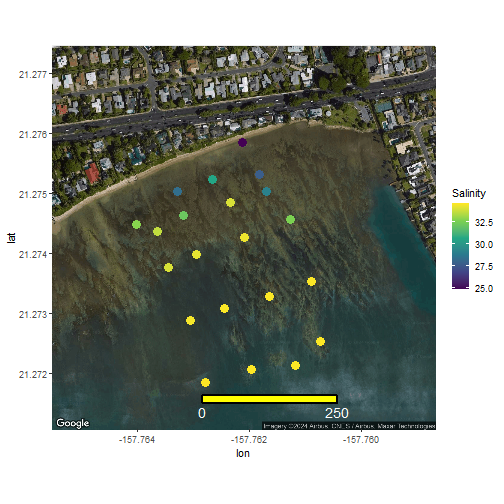
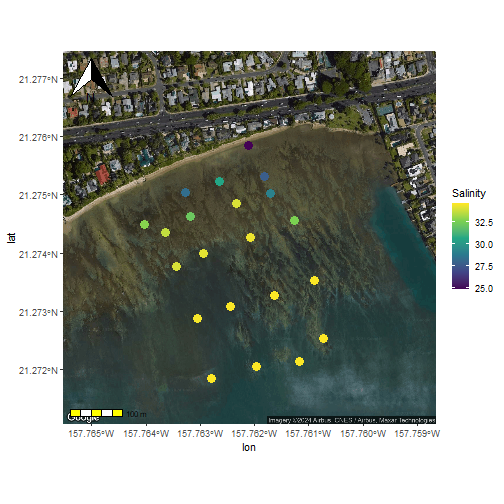
updated maps lectures

diff --git a/Week_07/13_Maps1.html b/Week_07/13_Maps1.html
@@ -25,7 +25,7 @@ class: center, middle, inverse, title-slide
 ### UH Data Fundamentals in R
 ]
 .date[
-### (updated: 2024-10-01)
+### (updated: 2024-10-07)
 ]
 
 ---
@@ -104,7 +104,7 @@ Other very helpful packages:
 - **sf** (This is for the serious GIS people. If you want to do actual spatial analyses this is the package to use)
 - **ggmap** (Uses the google maps API to make maps. Really easy to use, but requires a credit card for the API...)
 - **tmap** (static and interactive maps)
-- **leaflet** (interactive html maps)
+- **leaflet** (interactive html maps-- Awesome to use with rmakrdown files)
 
 Helpful references:
 1. The required reading for today
@@ -762,6 +762,25 @@ ggplot(mtcars) +
 ```
 
 ![](13_Maps1_files/figure-html/unnamed-chunk-19-1.png)&lt;!-- --&gt;
+---
+# Homework
+You need to make a map **using RMarkdown** with one of the following datasets from past Tidy Tuesdays. Make sure, as usual, that you scripts and output are saved appropriately.
+
+[Plastic pollution](https://github.com/rfordatascience/tidytuesday/blob/master/data/2021/2021-01-26/readme.md)
+
+[Cats on the move!](https://github.com/rfordatascience/tidytuesday/blob/master/data/2023/2023-01-31/readme.md)
+
+[Where is Bigfoot!](https://github.com/rfordatascience/tidytuesday/tree/master/data/2022/2022-09-13)
+
+[Meteorites](https://github.com/rfordatascience/tidytuesday/tree/master/data/2019/2019-06-11)
+
+## Set up and test your google API key **BEFORE** online class.  
+You cannot follow along in class without the google API key. It requires a credit card, but you need to make 10,000 maps before you get charged (i.e. unless you are a developer you will never get charged). Follow the directions starting at ["Enable Google static map service for ggmap"](https://www.littlemissdata.com/blog/maps). If you don't feel comfortable doing this then you can just follow along in class online. Also, important, you **need to use a gmail account to set up your google API.**  
+
+You will also need a **Stadia Maps** API key.  This one does not require a credit card.  Follow directions [here](https://docs.stadiamaps.com/tutorials/getting-started-in-r-with-ggmap/)
+
+
+
 
 ---
 # Good plot Bad plot lab - competition
@@ -812,28 +831,6 @@ The second plot should be based on the same or similar data to the first plot, b
 .pull-right[
 ![goodplot1](libs/images/goodplot-1.png)]
 
-
-
----
-# Twitter inspiration
-
-[See this thread](https://x.com/NSilbiger/status/1642006283103662080)
-
-
----
-# Homework
-You need to make a map **using RMarkdown** with one of the following datasets from past Tidy Tuesdays. Make sure, as usual, that you scripts and output are saved appropriately.
-
-[Plastic pollution](https://github.com/rfordatascience/tidytuesday/blob/master/data/2021/2021-01-26/readme.md)
-
-[Cats on the move!](https://github.com/rfordatascience/tidytuesday/blob/master/data/2023/2023-01-31/readme.md)
-
-[Where is Bigfoot!](https://github.com/rfordatascience/tidytuesday/tree/master/data/2022/2022-09-13)
-
-[Meteorites](https://github.com/rfordatascience/tidytuesday/tree/master/data/2019/2019-06-11)
-
-## Set up and test your google API key **BEFORE** online class.  
-You cannot follow along in class without the google API key. It requires a credit card, but you need to make 10,000 maps before you get charged (i.e. unless you are a developer you will never get charged). Follow the directions starting at ["Enable Google static map service for ggmap"](https://www.littlemissdata.com/blog/maps). If you don't feel comfortable doing this then you can just follow along in class online. Also, important, you **need to use a gmail account to set up your google API.**
 
 ---
 class: center, middle

diff --git a/Week_07/14_Maps2.html b/Week_07/14_Maps2.html
@@ -25,7 +25,7 @@ class: center, middle, inverse, title-slide
 ### UH Data Science Fundamentals in R
 ]
 .date[
-### (updated: 2024-10-01)
+### (updated: 2024-10-07)
 ]
 
 ---
@@ -87,8 +87,8 @@ Working with Maps part 2
 
 
 ``` r
-install.packages("ggmap") # for ggmaps
-install.packages("ggsn") # to add scale bars and compass arrows
+devtools::install_github("dkahle/ggmap")# for ggmaps
+install.packages("ggspatial")# to add scale bars and compass arrows
 ```
 
 
@@ -96,7 +96,7 @@ install.packages("ggsn") # to add scale bars and compass arrows
 library(ggmap)
 library(tidyverse)
 library(here)
-library(ggsn)
+library(ggspatial)
 ```
 
 
@@ -106,6 +106,9 @@ register_google(key = "YOUR KEY HERE", write = TRUE) ### use your own API
 #IMPORTANT don't put your key to github!! I usually save mine in a text file and import it each time
 
 # Setting write = TRUE will write the API key to your R environment so that you do not have to re register it each time
+
+#Also use the stadia maps API Key
+register_stadiamaps("Your API KEY HERE", write = TRUE)
 ```
 
 ---
@@ -218,8 +221,6 @@ ggmap(Map1)
 
 
 ``` r
-#register_stadiamaps("YOUR-API-KEY-HERE", write = TRUE) -  need another API key 
-# https://docs.stadiamaps.com/tutorials/getting-started-in-r-with-ggmap/
 *Map1&lt;-get_map(WP,zoom = 17, maptype = "stamen_watercolor", source = "stadia")
 
 ggmap(Map1)
@@ -251,14 +252,13 @@ ggmap(Map1)+
              aes(x = Long, y = Lat, color = Salinity), 
              size = 4) + 
   scale_color_viridis_c()+
-  scalebar( x.min = -157.766, x.max = -157.758,
-           y.min = 21.2715, y.max = 21.2785,
-            dist = 250, dist_unit = "m", model = "WGS84", 
-            transform = TRUE, st.color = "white",
-            box.fill = c("yellow", "white")) 
+  annotation_scale( bar_cols = c("yellow", "white"),
+                    location = "bl")+ # put the bar on the bottom left and make the colors yellow and white
+  annotation_north_arrow(location = "tl")+ # add a north arrow
+  coord_sf(crs = 4326) # for the scale bar to work it needs to be in this coordinate system - this is a typical coordinate reference system for a GPS (WGS84)
 ```
 
-&lt;img src="14_Maps2_files/figure-html/unnamed-chunk-12-1.png" width="30%" style="display: block; margin: auto;" /&gt;
+&lt;img src="14_Maps2_files/figure-html/unnamed-chunk-12-1.png" width="35%" style="display: block; margin: auto;" /&gt;
 
     
 ---
